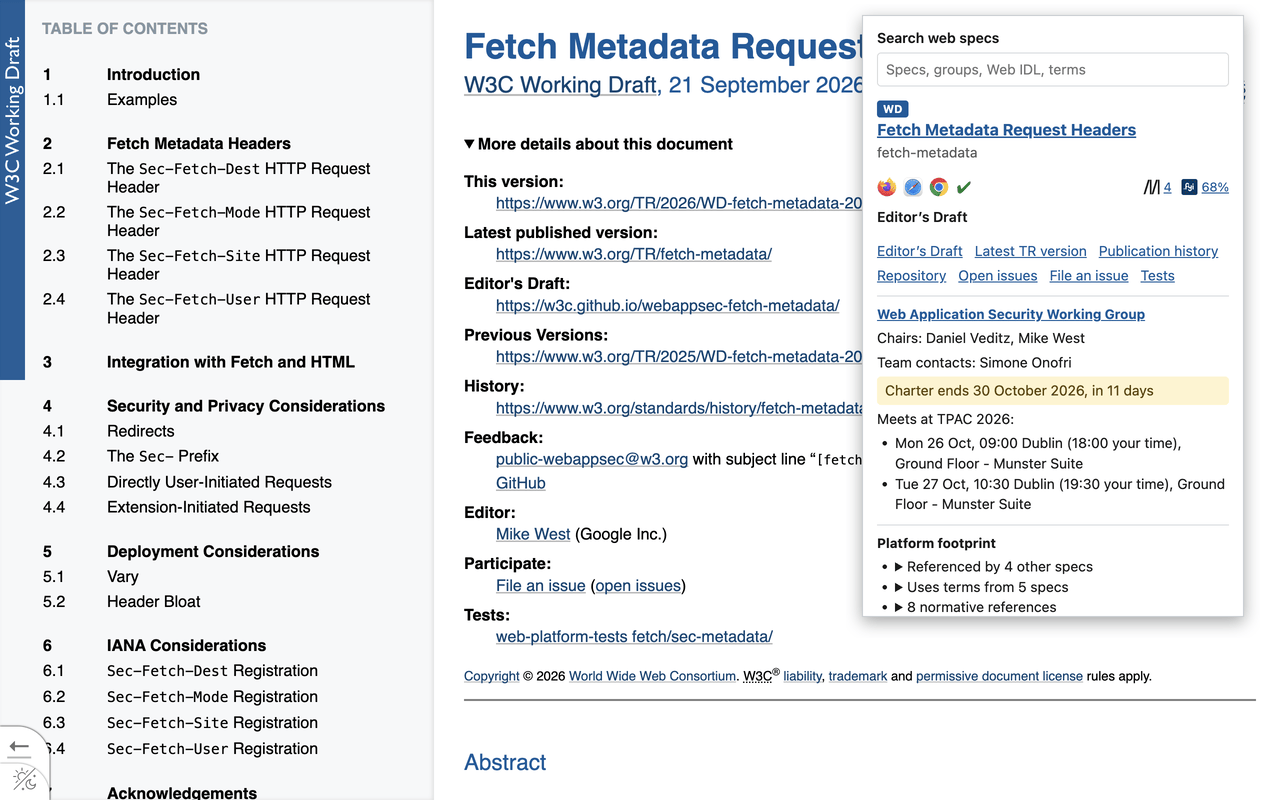
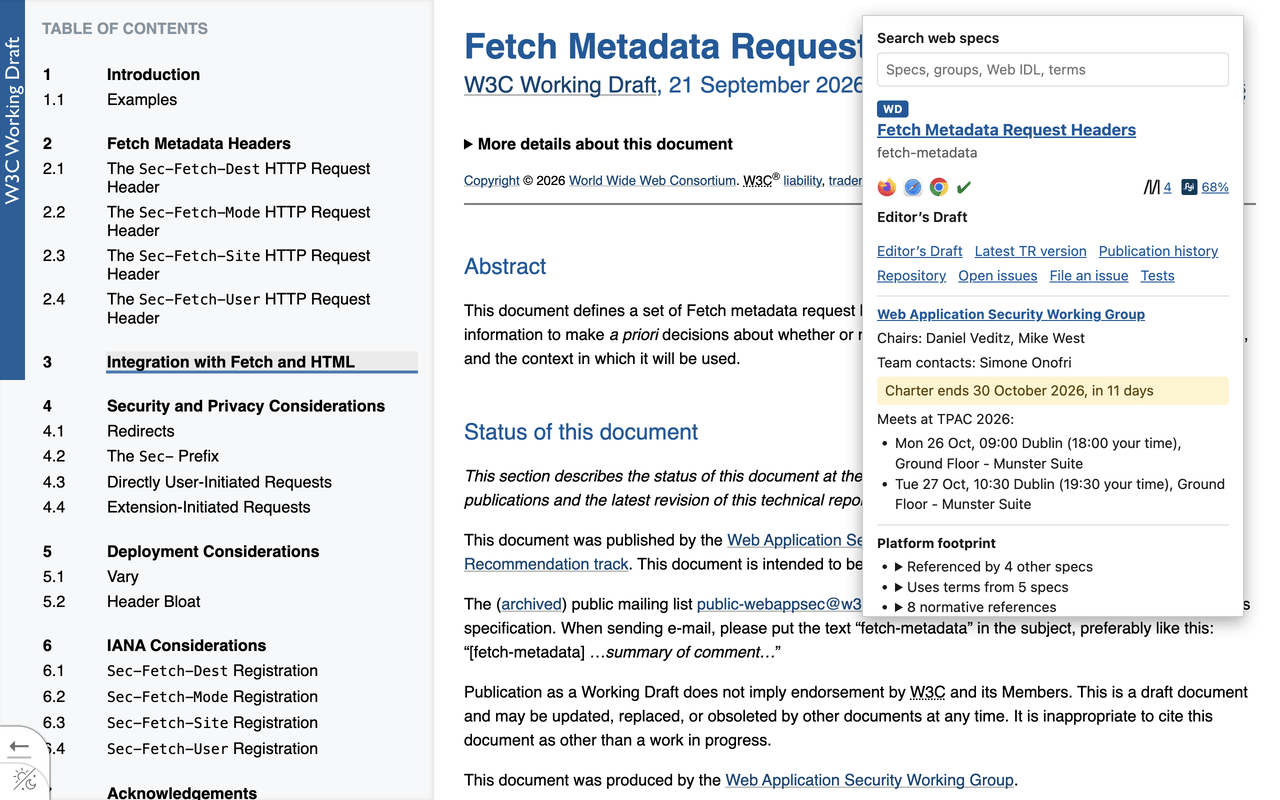
Screenshots: Show the specs with their metadata collapsed
The W3C spec pages in the screenshots open with their “More details
about this document” metadata expanded. So, go() now collapses it on
each page it opens, and the card, version-radar, and side-panel shots
are retaken with it closed.

Changed region(s): [[0.3438, 0.2188, 0.9688, 1.0], [0.0938, 0.4375, 0.3125, 0.4688]]

diff --git a/scripts/screenshots.ts b/scripts/screenshots.ts
@@ -169,6 +169,10 @@ async function launch(profile: string, clock?: number) {
         await cmd('Page.reload', { ignoreCache: true }, tab);
         await sleep(500);
       }
+      // Each shot shows a spec's header with its "More details about this document" metadata collapsed.
+      await evaluate(tab, `for (const s of document.querySelectorAll('details > summary')) {
+        if (s.textContent.trim() === 'More details about this document') s.parentElement.open = false;
+      }`);
       await sleep(2500);
     };
     // The footer warns when some live data couldn't be fetched, and a shot of stale data fails the run.
